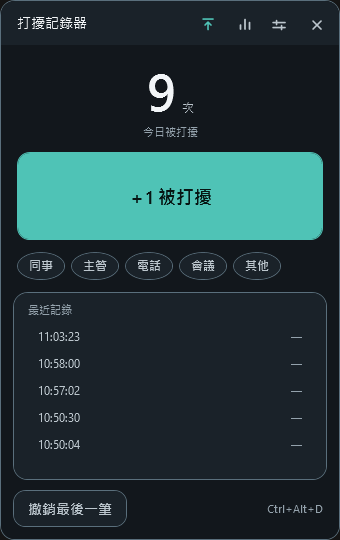
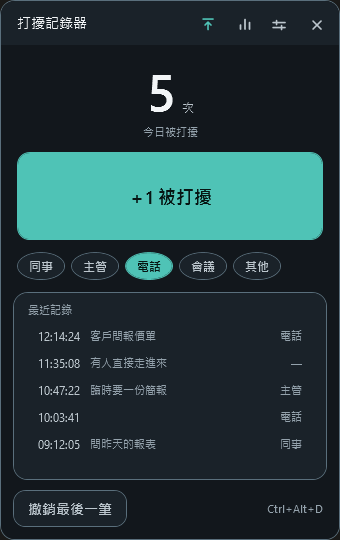
docs: 更新使用說明與截圖，補上編輯記錄與標籤狀態說明
- README 新增「補備註／改來源」用法與編輯記錄規格，加上授權段落
- 規格文件補 F14 編輯記錄與 RecordEditorWindow
- design-notes 補標籤三種狀態的視覺表達與焦點框的設計理由
- 主畫面截圖更新為含備註的版本，新增編輯視窗截圖

diff --git a/README.md b/README.md
@@ -4,9 +4,9 @@
 
 常駐桌面、可置頂、可收到系統匣。設計目標只有一個：**從「被打擾」到「記錄完成」不超過一個動作，而且不必離開手上的工作。**
 
-| 主畫面 | 統計 | 設定 |
-|---|---|---|
-| ![主畫面](docs/screenshots/main.png) | ![統計](docs/screenshots/stats.png) | ![設定](docs/screenshots/settings.png) |
+| 主畫面 | 編輯記錄 | 統計 | 設定 |
+|---|---|---|---|
+| ![主畫面](docs/screenshots/main.png) | ![編輯記錄](docs/screenshots/editor.png) | ![統計](docs/screenshots/stats.png) | ![設定](docs/screenshots/settings.png) |
 
 ---
 
@@ -57,7 +57,8 @@ dotnet run --project src/StopAnnoyingMe.App
 | 想做的事 | 怎麼做 |
 |---|---|
 | 記一次打擾 | 點主畫面的「＋1 被打擾」，或按熱鍵 `Ctrl+Alt+D`（預設），或從系統匣圖示右鍵選「記一次打擾」 |
-| 標記是誰打擾 | 記錄之後點一下標籤（同事／主管／電話／會議／其他）。再點同一個標籤可取消 |
+| 標記是誰打擾 | 記錄之後點一下標籤（同事／主管／電話／會議／其他）。**再點同一個標籤就取消標記** |
+| 補備註／改來源 | **點一下「最近記錄」裡的任一列**，開啟編輯視窗改來源與備註。發生時間不可修改 |
 | 按錯了 | 點「撤銷最後一筆」 |
 | 看統計 | 標題列的長條圖圖示，可切換今日／本週／本月 |
 | 匯出資料 | 統計畫面 →「匯出 CSV」，會匯出目前選取期間的所有記錄 |
@@ -76,7 +77,8 @@ dotnet run --project src/StopAnnoyingMe.App
 | 記錄內容 | 發生時間（本地時間，精確到秒）、可選來源標籤、可選備註 | 不記錄打擾持續時間 |
 | 手滑保護 | 距上一筆未滿 N 秒的重複觸發不寫入，並顯示提示 | 預設 3 秒；可在設定改為 0–3600，0 表示關閉 |
 | 撤銷 | 只刪除「今天」的最後一筆 | 今天沒有記錄時按鈕停用；不會動到昨天的資料 |
-| 標籤 | 標記今天最後一筆的來源 | 最多 8 個標籤；不標記不影響記錄 |
+| 標籤 | 標記今天最後一筆的來源，再點一次取消 | 最多 8 個標籤；不標記不影響記錄 |
+| 編輯記錄 | 點清單中的任一列改來源與備註 | 備註最多 500 字；發生時間不可修改；按取消不會寫入 |
 | 今日次數 | 以本地日期計算，跨午夜自動歸零 | 每 30 秒檢查一次日期變更 |
 | 本週 | 週一為一週之始 | 台灣工作週慣例 |
 | 本月 | 當月 1 日至月底 | 自動處理閏年二月與跨年 |
@@ -123,7 +125,7 @@ dotnet run --project src/StopAnnoyingMe.App
 ```
 src/StopAnnoyingMe.Core        純邏輯（資料存取、統計、設定、熱鍵解析），無 UI 相依
 src/StopAnnoyingMe.App         WPF 介面、系統匣、全域熱鍵
-tests/StopAnnoyingMe.Core.Tests xUnit，98 個測試
+tests/StopAnnoyingMe.Core.Tests xUnit，110 個測試
 tools/generate-icon.ps1        由向量路徑產生多尺寸 app.ico
 tools/publish.ps1              跑測試 → 產圖示 → 輸出單一執行檔到 dist\
 docs/                          設計規格、視覺設計說明、截圖
@@ -153,3 +155,7 @@ docs/                          設計規格、視覺設計說明、截圖
 - 視覺主題在 `src/StopAnnoyingMe.App/Themes/Design.xaml`，色票與對比值記在 [docs/design-notes.md](docs/design-notes.md)
 - 設計決策與邊界條件清單在 [docs/superpowers/specs/2026-09-16-interruption-tracker-design.md](docs/superpowers/specs/2026-09-16-interruption-tracker-design.md)
 - CSV 匯出不對以 `=`、`+`、`-`、`@` 開頭的欄位做跳脫；資料來自使用者自己輸入的備註，優先保持內容原樣
+
+## 授權
+
+[MIT](LICENSE)

diff --git a/docs/superpowers/specs/2026-09-16-interruption-tracker-design.md b/docs/superpowers/specs/2026-09-16-interruption-tracker-design.md
@@ -62,6 +62,7 @@ StopAnnoyingMe.sln
 | `StatsWindow` | 統計畫面：期間次數與每小時分佈長條圖 |
 | `SettingsWindow` | 設定：熱鍵、置頂、開機自啟、標籤清單、資料夾 |
 | `ToastWindow` | 熱鍵記錄後右下角的短暫提示（見 §5 F7） |
+| `RecordEditorWindow` | 編輯單一筆記錄的來源與備註（見 §5 F14） |
 | `GlobalHotkey` | 註冊／解除全域熱鍵，失敗時回報 |
 | `TrayIconController` | 系統匣圖示（顯示今日次數）、右鍵選單 |
 | `StartupManager` | 開機自動啟動（HKCU Run） |
@@ -112,7 +113,7 @@ CREATE TABLE schema_version (version INTEGER NOT NULL);
 | F1 | 記錄打擾 | 點主按鈕或按熱鍵 → 以當下本地時間新增一筆，今日次數 +1 |
 | F2 | 今日次數 | 主畫面大字顯示，跨午夜自動歸零 |
 | F3 | 最近記錄 | 顯示今日最近 5 筆時間（HH:mm:ss）與標籤 |
-| F4 | 可選標籤 | 記錄後主畫面出現標籤列，點一下即補標籤到最後一筆；不點不影響 |
+| F4 | 可選標籤 | 主畫面標籤列，點一下把標籤補到今天最後一筆；再點同一顆取消標記；不點不影響 |
 | F5 | 撤銷 | Undo 刪除最後一筆（僅限今日最後一筆） |
 | F6 | 去重保護 | 距上一筆未滿 `duplicateGuardSeconds` 秒 → 不記錄，顯示「剛剛已記錄」提示 |
 | F7 | 全域熱鍵 | 背景可用，記錄後於右下角顯示 2.5 秒提示告知今日次數 |
@@ -122,6 +123,7 @@ CREATE TABLE schema_version (version INTEGER NOT NULL);
 | F11 | CSV 匯出 | 選擇期間匯出「發生日期, 發生時間, 星期, 來源, 備註」，UTF-8 with BOM（Excel 相容） |
 | F12 | 開機自啟 | 寫入 `HKCU\Software\Microsoft\Windows\CurrentVersion\Run` |
 | F13 | 單一執行個體 | 重複啟動時喚回既有視窗並結束新行程 |
+| F14 | 編輯記錄 | 點「最近記錄」的任一列開啟編輯視窗，可改來源與備註（最多 500 字）。發生時間唯讀 —— 那是本工具唯一的事實依據，能改就失去意義。備註內容直接顯示在清單列上 |
 
 ## 6. 邊界條件與例外處理
 

diff --git a/docs/design-notes.md b/docs/design-notes.md
@@ -87,6 +87,17 @@ F0 M 40,36 H 216 V 180 H 136 L 72,220 V 180 H 40 Z M 64,60 H 192 V 156 H 128 L 9
 
 主按鈕使用完整寬度的大面積點擊區，視線仍停留在工作內容時也容易命中；介面不配置循環動畫，只用即時的 hover／pressed 色彩切換回應操作。
 
+## 標籤（chip）的狀態表達
+
+| 狀態 | 表現 |
+|---|---|
+| 未選取 | 深色底、細邊框 |
+| 已選取 | 強調色實心填滿、深色文字 |
+| 鍵盤焦點 | 內部一圈**虛線**（未選取時白色、已選取時深色），外框與底色都不變 |
+
+鍵盤焦點刻意不用「實心亮色外框」：那和「已選取」的實心填色太像，
+使用者會把只是取得焦點的標籤誤認為已選取，進而以為「點不掉」。
+
 按熱鍵記錄時另外會在螢幕右下角顯示一個約 2.5 秒的獨立提示視窗（同一套色票、強調色外框），
 不使用 Windows 系統匣氣泡，因為氣泡會被「專注輔助」直接吃掉。
 
